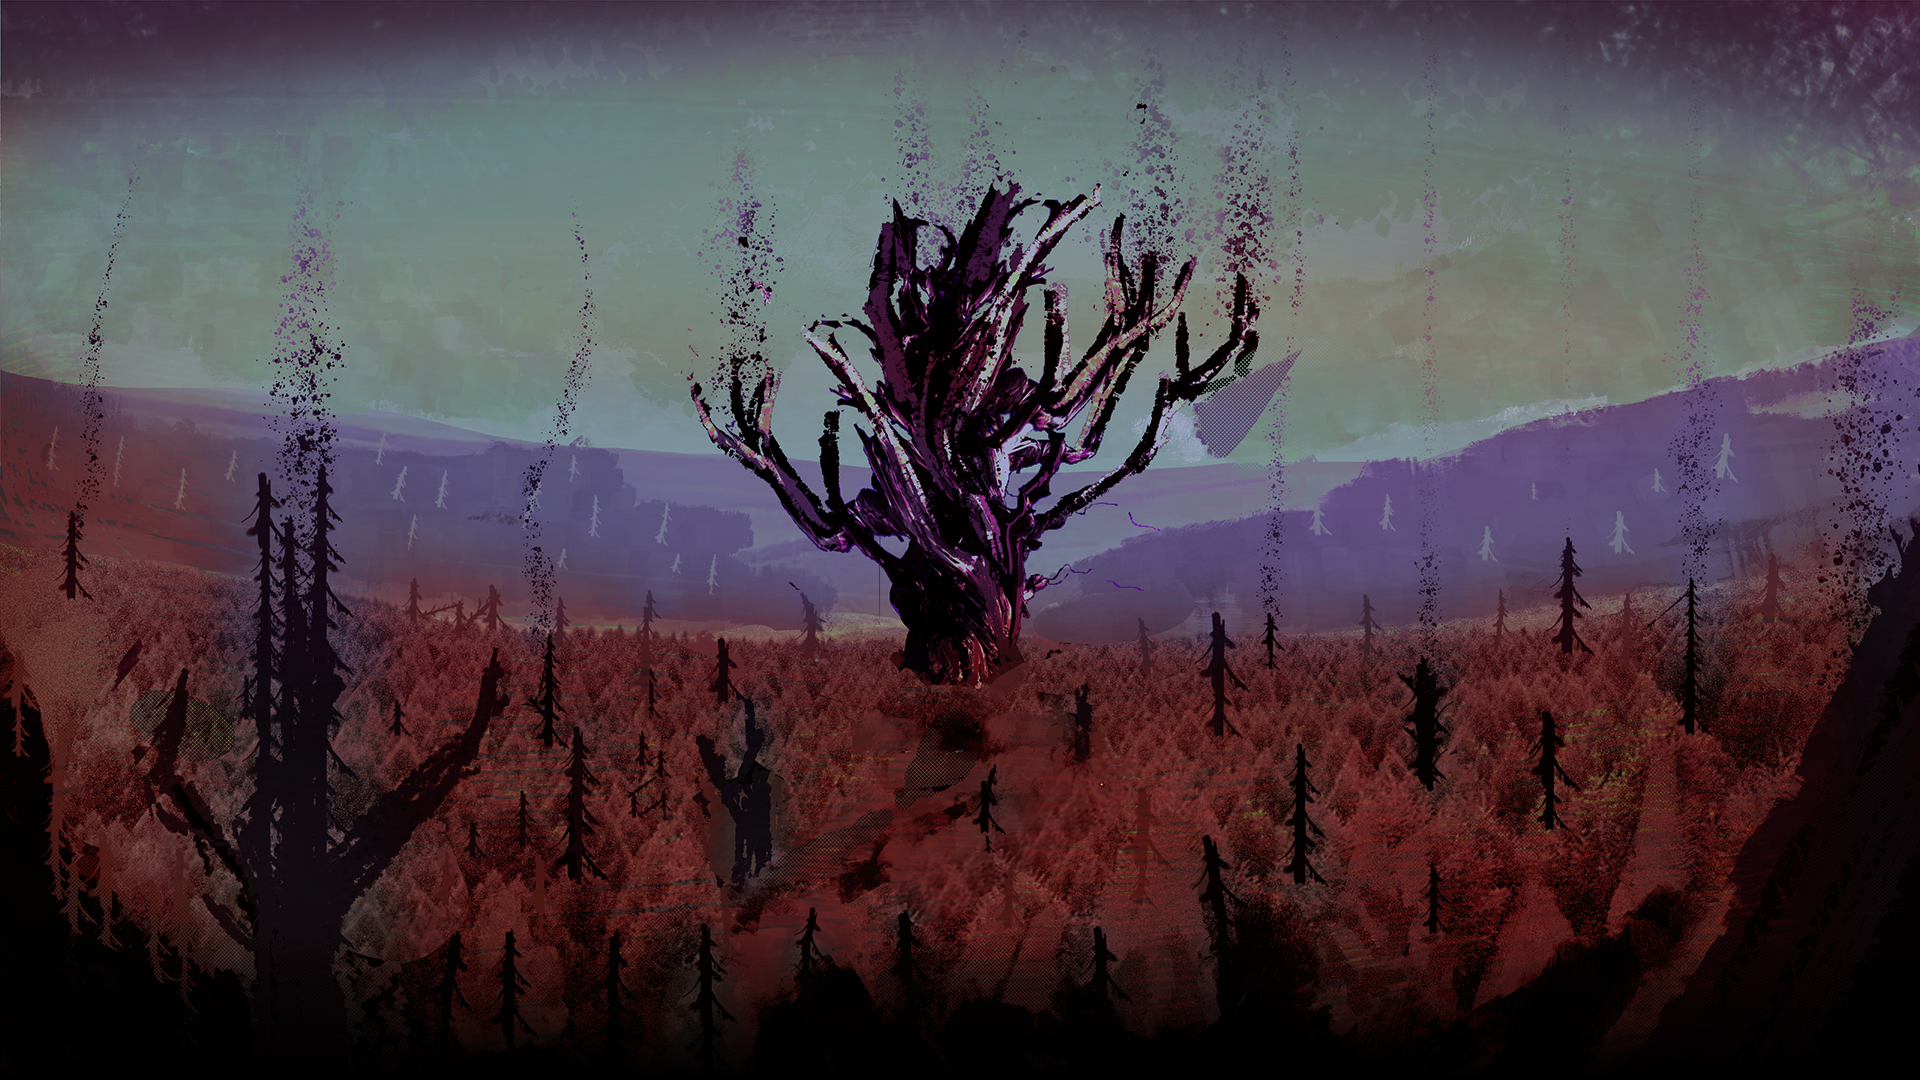
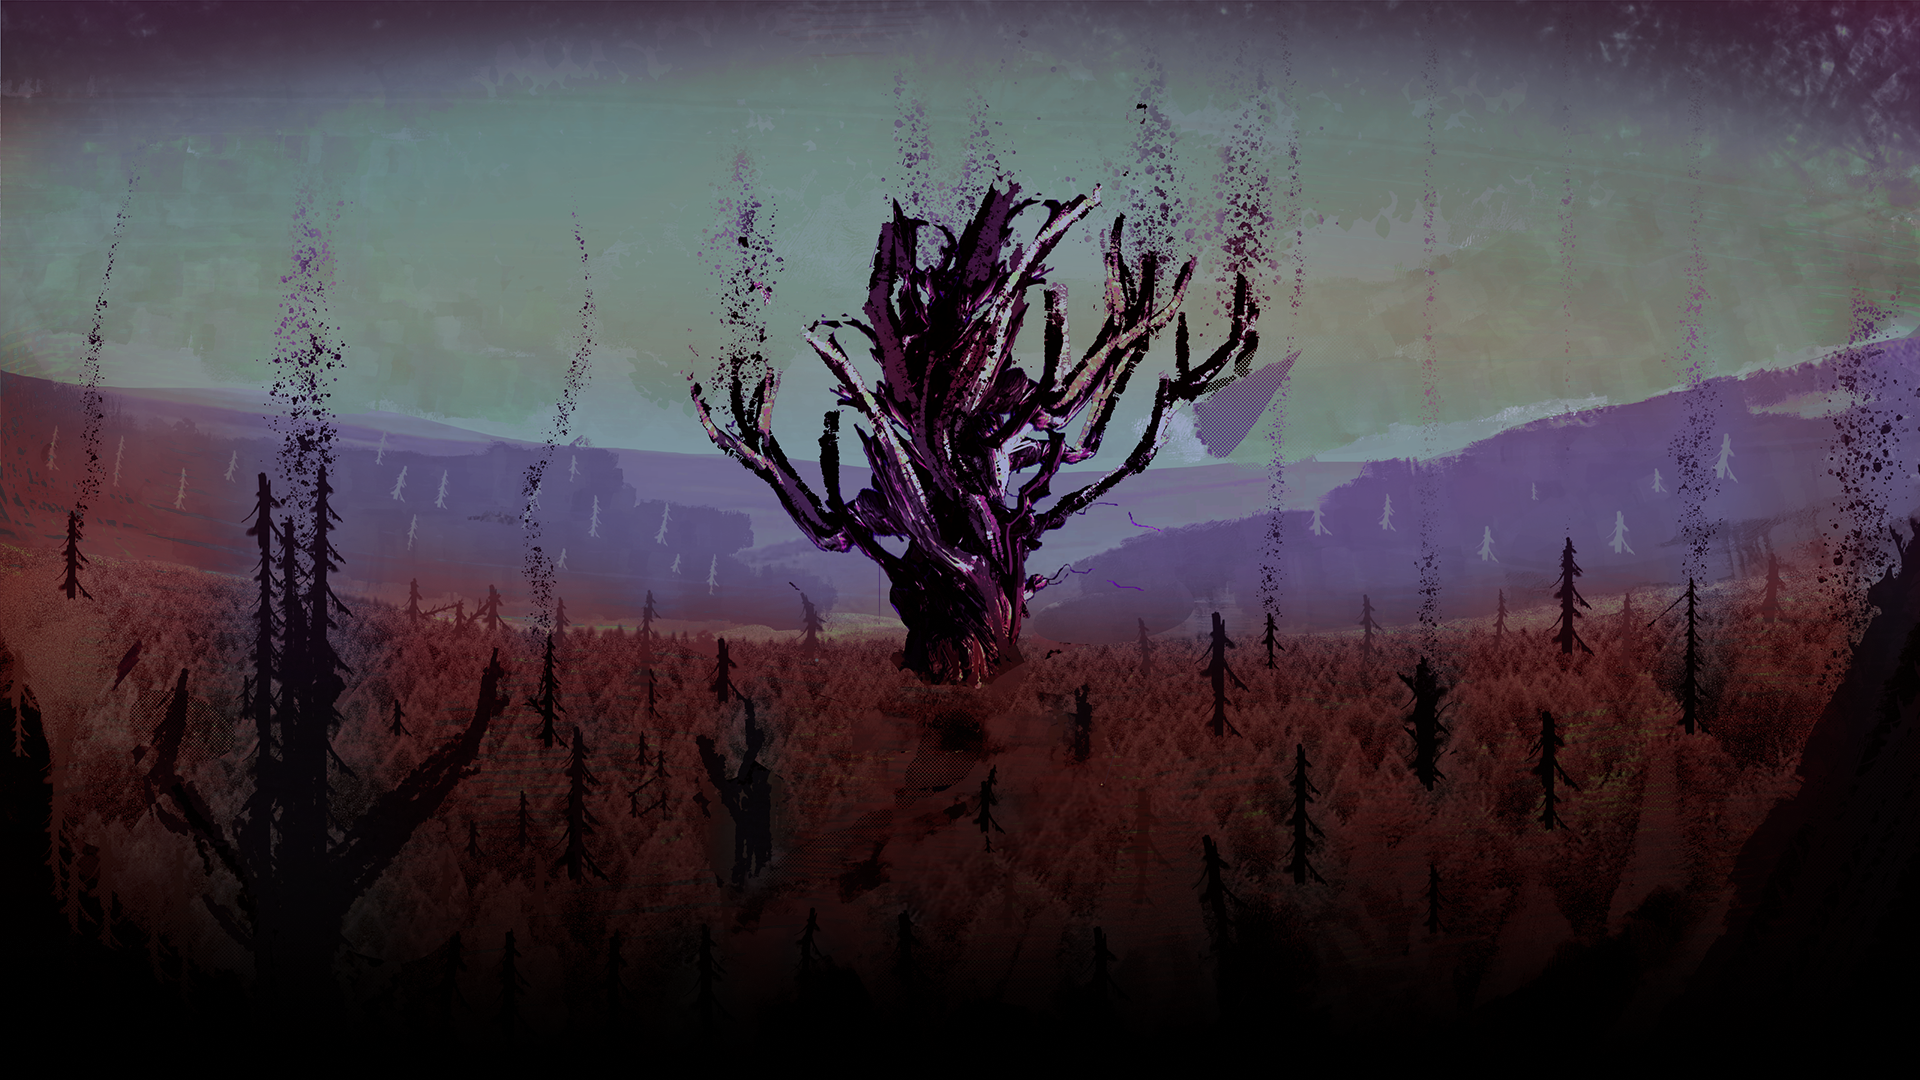
fix bg ios
fix bg ios

Changed region(s): [[0.0, 0.6417, 0.9375, 0.9472]]

diff --git a/assets/css/style.css b/assets/css/style.css
@@ -109,9 +109,8 @@ footer {
     margin: 0;
     width: 100%;
     height: 50%;
-    background: -webkit-gradient(linear, left top, left bottom, from(rgba(255, 255, 255, 0)), to(rgba(0, 0, 0, 1)));
-    background: -o-linear-gradient(top, rgba(255, 255, 255, 0) 0%, rgba(0, 0, 0, 1) 100%);
-    background: linear-gradient(to bottom, rgba(255, 255, 255, 0) 0%, rgba(0, 0, 0, 1) 100%);
+    background-color: black;
+    opacity: .25;
 }
 
 .title {
